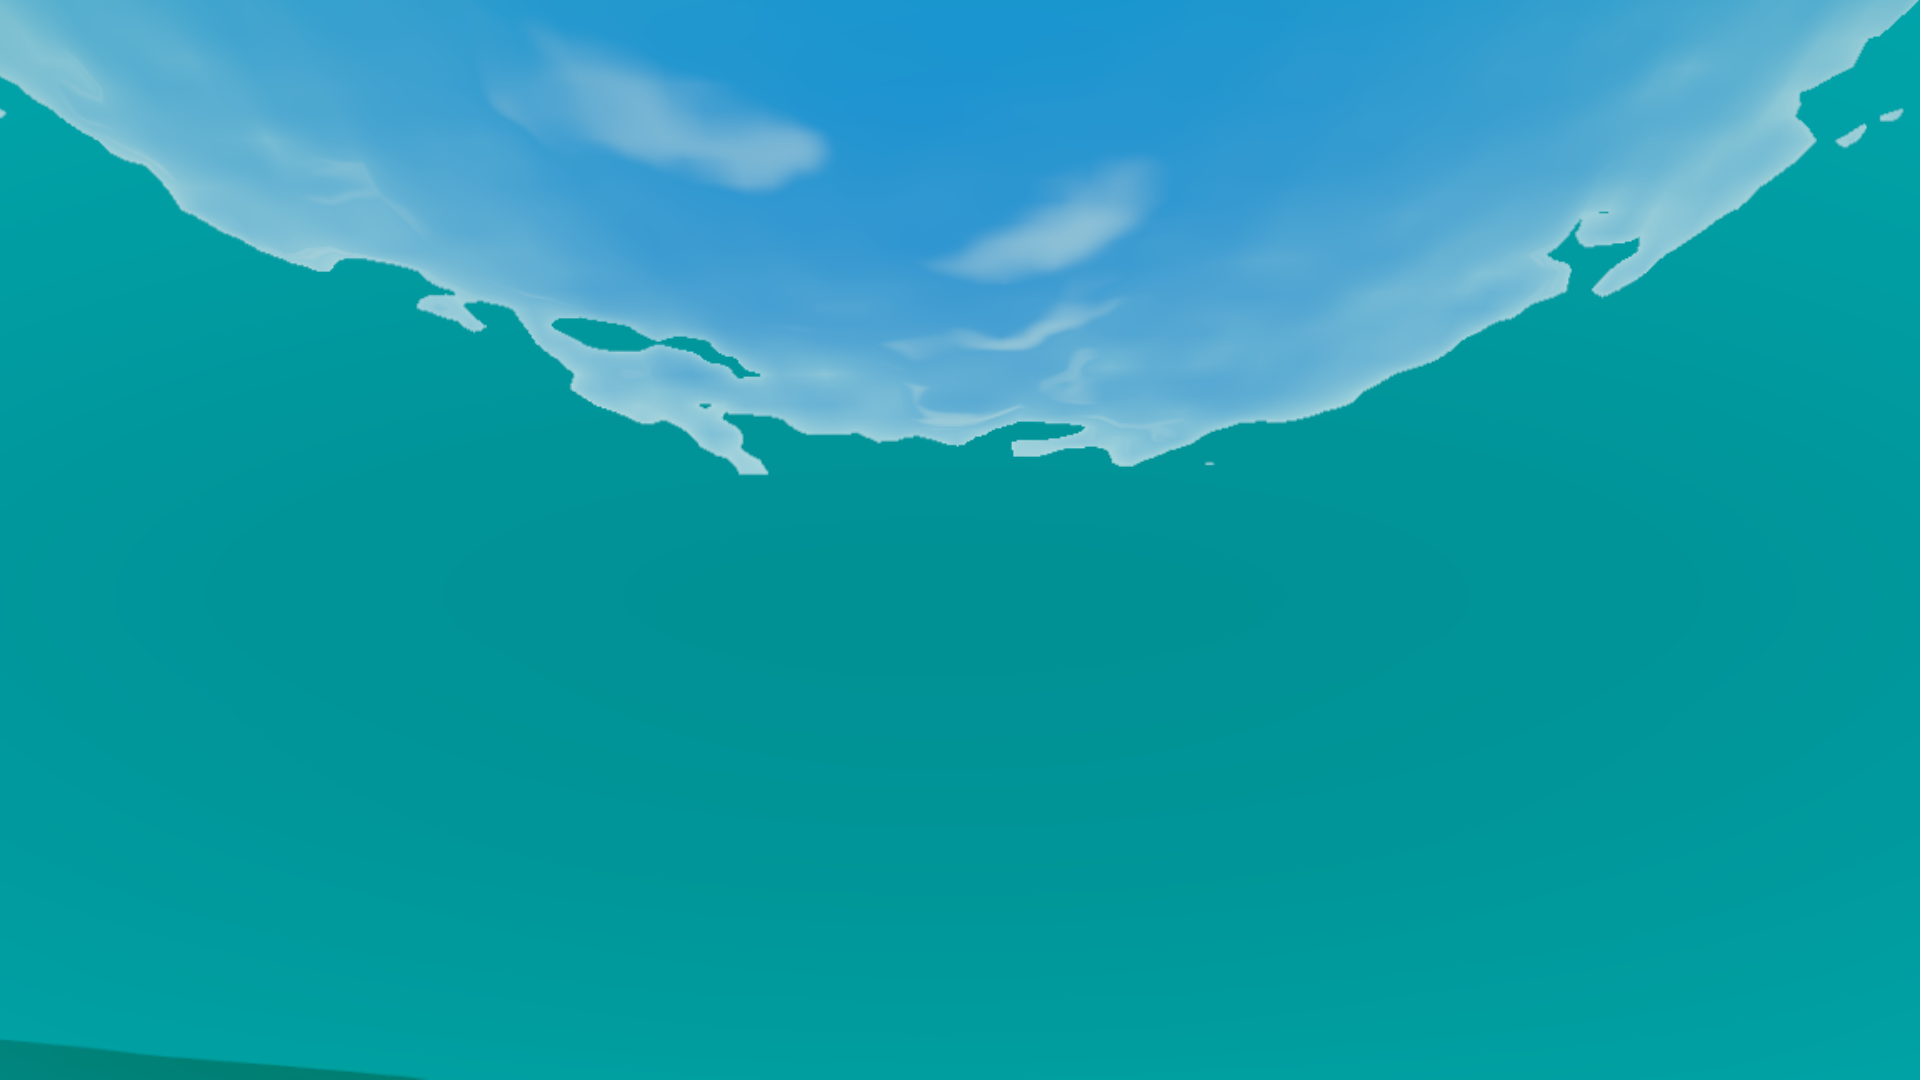
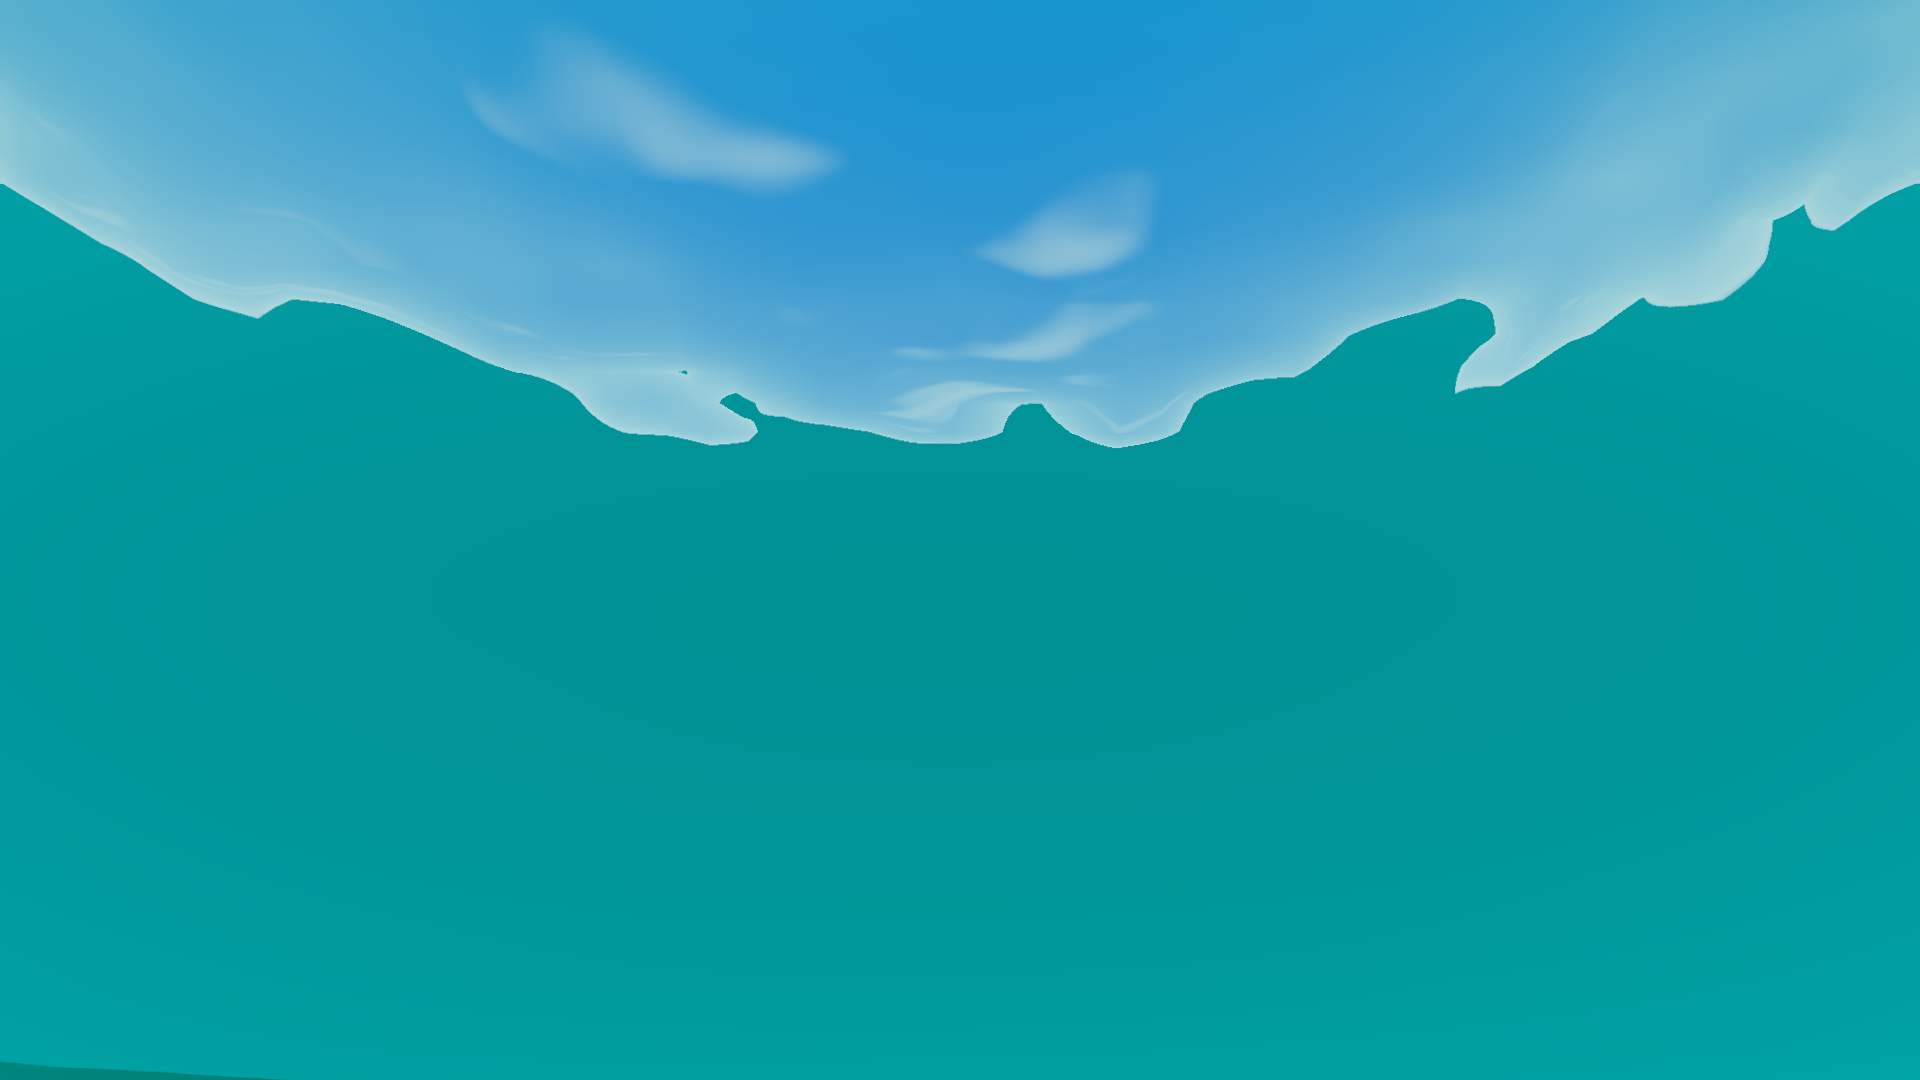
Source the foam history from the spectral field it is meant to describe
The persistent-foam pass evaluated the Gerstner wave field. That field has the
right statistics but an entirely different phase, so on the spectral path the
streaks were laid down on crests that were not there — foam drifting across
open water while the crests actually breaking carried nothing.

The compute pass already derives the folding metric; the slope texture's .z
channel was dead. It goes there. No extra target, no extra FFT, no extra
bandwidth, and three texture fetches replace a twenty-component Gerstner sum
per foam texel — so this is a saving rather than a cost: 4K Ultra went
67.23 ms to 52.92, and the lagoon underwater view from 49.8 fps back to 60.

The high tier's window went 256 m to 420 m, because with whitecaps finally
strong the old boundary sat 128 m from the camera and read as a coverage
step.

Two things this got wrong on the way, both worth recording:

The metric was first stored already clamped, saturate(-divergence). The
consumer sums it across three cascades, so three saturated values added to
three, the fold test saturated everywhere and the entire sea turned white.
It is stored signed and unclamped now, and the consumer forms 1 + divergence
exactly as the water surface does — they have to agree or the persistent foam
sits where the instantaneous crest mask does not.

And collapsing the double smoothstep gate had to be reverted. Two onset tests
in series is wrong in principle, but all ten presets' foamThreshold values
[…]

diff --git a/src/ocean/foam.js b/src/ocean/foam.js
@@ -20,14 +20,14 @@
 // in the same pass.
 
 import { HalfFloatType, LinearFilter, Mesh, MeshBasicNodeMaterial, OrthographicCamera, PlaneGeometry, RGBAFormat, RenderTarget, Scene, Vector2 } from 'three/webgpu';
-import { Fn, float, length, max, min, saturate, smoothstep, step, texture, uniform, uv, vec3, vec4 } from 'three/tsl';
+import { Fn, float, length, max, min, saturate, smoothstep, step, texture, uniform, uv, vec2, vec3, vec4 } from 'three/tsl';
 
 import { createWaveEvaluator, foamFromJacobian } from './waves.js';
 
 export const FOAM_TIERS = {
 	low: { size: 128, window: 220 },
 	medium: { size: 192, window: 240 },
-	high: { size: 256, window: 256 },
+	high: { size: 320, window: 420 },
 	ultra: { size: 384, window: 300 },
 };
 
@@ -38,10 +38,11 @@ export class FoamHistory {
 	 * @param {WaveField} field
 	 * @param {object} tier  one of FOAM_TIERS
 	 */
-	constructor( env, field, tier ) {
+	constructor( env, field, tier, spectral = null ) {
 
 		this.env = env;
 		this.field = field;
+		this.spectral = spectral;
 		this.size = tier.size;
 		this.window = tier.window;
 
@@ -92,7 +93,8 @@ export class FoamHistory {
 
 		const env = this.env;
 		const u = env.u;
-		const evaluate = createWaveEvaluator( this.field, env, { earlyOut: false } );
+		const spectral = this.spectral;
+		const evaluate = spectral ? null : createWaveEvaluator( this.field, env, { earlyOut: false } );
 
 		const material = new MeshBasicNodeMaterial();
 		material.name = 'FoamAccumulate';
@@ -123,13 +125,48 @@ export class FoamHistory {
 
 			/* --- fresh foam from the crest mask -------------------------- */
 
-			// dist = 0: the history buffer is a top-down world map, so there is no
-			// camera distance at which to fade wave components out.
-			const wave = evaluate( worldXZ, float( 0.0 ) );
+			const source = float( 0 ).toVar( 'foamSource' );
 
-			const source = foamFromJacobian(
-				wave.jacobian, length( wave.slope ), u.foamThreshold, u.foamSharpness
-			).mul( this.uSourceGain ).toVar( 'foamSource' );
+			if ( spectral ) {
+
+				// Read the folding metric the compute pass already wrote, from the
+				// same cascades the surface is displaced by.
+				//
+				// This pass used to evaluate the Gerstner field instead. That field
+				// has the right statistics but an entirely different phase, so on the
+				// spectral path the persistent foam was laid down on crests that were
+				// not there — streaks drifting across open water while the actual
+				// breaking crests carried nothing. Three fetches also cost far less
+				// than a twenty-component Gerstner sum, so this is a saving.
+				const fold = float( 0 ).toVar( 'foamFold' );
+				const slope = vec2( 0, 0 ).toVar( 'foamSlope' );
+
+				for ( let c = 0; c < spectral.sizes.length; c ++ ) {
+
+					const s = texture( spectral.slope[ c ], worldXZ.div( spectral.sizes[ c ] ), float( 0 ) );
+					fold.addAssign( s.z );
+					slope.addAssign( s.xy );
+
+				}
+
+				// Jacobian ~= 1 + divergence, exactly as the water surface forms it —
+				// the two have to agree or the persistent foam sits somewhere the
+				// instantaneous crest mask does not.
+				source.assign( foamFromJacobian(
+					fold.add( 1.0 ), length( slope ), u.foamThreshold, u.foamSharpness
+				).mul( this.uSourceGain ) );
+
+			} else {
+
+				// dist = 0: the history buffer is a top-down world map, so there is no
+				// camera distance at which to fade wave components out.
+				const wave = evaluate( worldXZ, float( 0.0 ) );
+
+				source.assign( foamFromJacobian(
+					wave.jacobian, length( wave.slope ), u.foamThreshold, u.foamSharpness
+				).mul( this.uSourceGain ) );
+
+			}
 
 			// max(), not add(): foam saturates. Adding would let a persistent
 			// crest run away to a hard white slab.

diff --git a/src/ocean/spectral.js b/src/ocean/spectral.js
@@ -23,7 +23,7 @@
 
 import { HalfFloatType, LinearFilter, RGBAFormat, RepeatWrapping, StorageTexture, Vector2 } from 'three/webgpu';
 import {
-	Fn, float, floor, instanceIndex, int, ivec2, cos, sin, sqrt, max, texture, textureStore,
+	Fn, float, floor, instanceIndex, int, ivec2, cos, sin, saturate, sqrt, max, texture, textureStore,
 	uniform, vec2, vec4, attributeArray,
 } from 'three/tsl';
 
@@ -229,7 +229,17 @@ export class SpectralOcean {
 				const divergence = p2.y.mul( amp );
 
 				textureStore( dispTex, ivec2( int( x ), int( z ) ), vec4( dx, dy, dz, divergence ) ).toStack();
-				textureStore( slopeTex, ivec2( int( x ), int( z ) ), vec4( dYdx, dYdz, 0, 1 ) ).toStack();
+				// .z carried nothing. The folding metric goes here so anything that
+				// wants whitecaps can read the *visible* wave field with one fetch,
+				// instead of re-deriving them from a second, differently-phased one.
+				// No extra target, no extra FFT, no extra bandwidth.
+				//
+				// Stored signed and unclamped, because the consumer sums it across
+				// cascades and only then forms the Jacobian. Clamping per cascade
+				// first — which is what the first version did — makes three
+				// already-saturated values add to three, so the fold test saturates
+				// everywhere and the whole sea turns white.
+				textureStore( slopeTex, ivec2( int( x ), int( z ) ), vec4( dYdx, dYdz, divergence, 1 ) ).toStack();
 
 			} )().compute( N * N ) );
 

diff --git a/src/ocean/material.js b/src/ocean/material.js
@@ -618,11 +618,14 @@ export function createOceanMaterial( env, field, sky, opts = {} ) {
 		const foamFade = oneMinus( smoothstep( 1200.0, 6000.0, vRadial ) );
 
 		const erode = foamFine.mul( 0.62 ).add( foamPatch.mul( 0.52 ) ).add( 0.14 ).toVar( 'foamErode' );
-		// One onset test, not two. foamFromJacobian already decides *whether* a crest
-		// breaks; this smoothstep used to decide it again, and the two in series meant
-		// a fully saturated whitecap landed mid-ramp at ~0.51 and could never reach
-		// white. This band now only shapes the edge.
-		const foamMask = smoothstep( 0.05, 0.55, foamRaw.mul( erode ) ).mul( foamFade ).toVar( 'foamMask' );
+		// Two smoothsteps in series *is* wrong in principle — foamFromJacobian already
+		// decides whether a crest breaks, and this was deciding it again. But all ten
+		// presets' foamThreshold values were authored against the pair, so removing
+		// the second one uniformly over-foams: Storm Front came out as a solid white
+		// slab of sea. Re-basing ten hand-tuned numbers to chase a purity argument is
+		// a worse trade than keeping the band, so the band stays and the onset is
+		// moved by wind speed instead — which is the part that was actually missing.
+		const foamMask = smoothstep( 0.22, 0.70, foamRaw.mul( erode ) ).mul( foamFade ).toVar( 'foamMask' );
 
 		// Foam is lit, not painted white: it darkens in shadow and warms at sunset.
 		const foamLit = u.foamColor.mul(

diff --git a/src/env/uniforms.js b/src/env/uniforms.js
@@ -370,7 +370,14 @@ export function syncUniforms( env, dt = 0 ) {
 	{
 
 		const W = 3.84e-6 * Math.pow( Math.max( 0.5, p.windSpeed ), 3.41 );
-		u.foamThreshold.value = p.foamThreshold * ( 1 - 0.55 * Math.min( 1, W / 0.02 ) );
+
+		// sqrt, because W spans three decades between a calm lagoon and a gale and
+		// feeding it in linearly saturated the storm presets instantly — Storm Front
+		// came out as one solid white slab of sea. The square root compresses that
+		// range into something a threshold can use: 3 m/s barely moves it, 9.5 m/s
+		// takes about a fifth off, 21 m/s takes nearly half.
+		const f = Math.min( 1, Math.sqrt( W / 0.05 ) );
+		u.foamThreshold.value = p.foamThreshold * ( 1 - 0.45 * f );
 
 	}
 	u.foamSharpness.value = p.foamSharpness;

diff --git a/src/main.js b/src/main.js
@@ -297,7 +297,7 @@ class App {
 		// instantaneous crest foam — one fewer render target and one fewer full
 		// wave evaluation per frame.
 		this.foam = tier.foamHistory
-			? new FoamHistory( this.env, this.field, FOAM_TIERS[ tier.foam ] )
+			? new FoamHistory( this.env, this.field, FOAM_TIERS[ tier.foam ], this.spectral?.textures ?? null )
 			: null;
 
 		// The reflection target has to exist before the water material is built,
